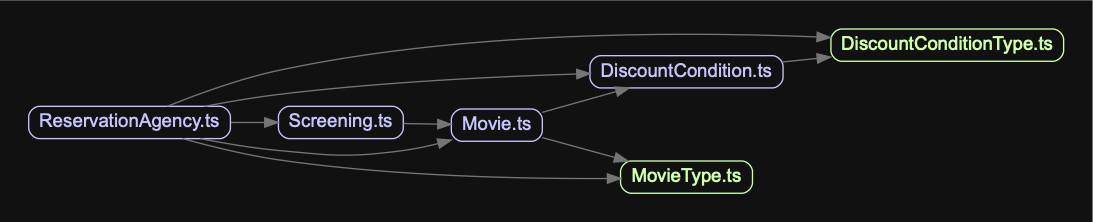
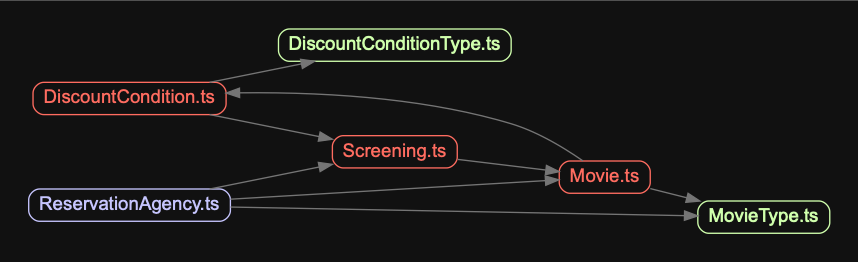
174p

diff --git a/chapter4/ReservationAgency.ts b/chapter4/ReservationAgency.ts
@@ -2,10 +2,8 @@ import { Reservation } from './Reservation';
 import { Screening } from './Screening';
 import { Customer } from './Customer';
 import { Movie } from './Movie';
-import { DiscountConditionType } from './DiscountConditionType';
 import { Money } from './Money';
 import { MovieType } from './MovieType';
-import { DiscountCondition } from './DiscountCondition';
 
 export class ReservationAgency {
   reserve(screening: Screening, customer: Customer, audienceCount: number): Reservation {
@@ -18,26 +16,7 @@ export class ReservationAgency {
     return screening
       .getMovie()
       .getDiscountConditions()
-      .some(condition => this.isDiscountable(condition, screening));
-  }
-
-  private isDiscountable(condition: DiscountCondition, screening: Screening): boolean {
-    if (condition.getType() === DiscountConditionType.PERIOD) {
-      return this.isSatisfiedByPeriod(condition, screening);
-    }
-    return this.isSatisfiedBySequence(condition, screening);
-  }
-
-  private isSatisfiedByPeriod(condition: DiscountCondition, screening: Screening): boolean {
-    return (
-      screening.getWhenScreended().getTime() === condition.getDayOfWeek() &&
-      condition.getStartTime() <= screening.getWhenScreended() &&
-      condition.getEndTime() >= screening.getWhenScreended()
-    );
-  }
-
-  private isSatisfiedBySequence(condition: DiscountCondition, screening: Screening): boolean {
-    return condition.getSequence() === screening.getSequence();
+      .some(condition => condition.isDiscountable(screening));
   }
 
   private calculateDiscountFee(screening: Screening, discountable: boolean, audienceCount: number): Money {

diff --git a/chapter4/DiscountCondition.ts b/chapter4/DiscountCondition.ts
@@ -1,4 +1,5 @@
 import { DiscountConditionType } from './DiscountConditionType';
+import { Screening } from './Screening';
 
 export class DiscountCondition {
   private type: DiscountConditionType;
@@ -9,43 +10,22 @@ export class DiscountCondition {
   private startTime: Date;
   private endTime: Date;
 
-  getType(): DiscountConditionType {
-    return this.type;
+  isDiscountable(screening: Screening): boolean {
+    if (this.type === DiscountConditionType.PERIOD) {
+      return this.isSatisfiedByPeriod(screening);
+    }
+    return this.isSatisfiedBySequence(screening);
   }
 
-  setType(type: DiscountConditionType) {
-    this.type = type;
+  private isSatisfiedByPeriod(screening: Screening): boolean {
+    return (
+      screening.getWhenScreended().getTime() === this.dayOfWeek &&
+      this.startTime <= screening.getWhenScreended() &&
+      this.endTime >= screening.getWhenScreended()
+    );
   }
 
-  getSequence(): number {
-    return this.sequence;
-  }
-
-  setSequence(sequence: number): void {
-    this.sequence = sequence;
-  }
-
-  getDayOfWeek(): number {
-    return this.dayOfWeek;
-  }
-
-  setDayOfWeek(dayOfWeek: number): void {
-    this.dayOfWeek = dayOfWeek;
-  }
-
-  getStartTime(): Date {
-    return this.startTime;
-  }
-
-  setStartTime(startTime: Date): void {
-    this.startTime = startTime;
-  }
-
-  getEndTime(): Date {
-    return this.endTime;
-  }
-
-  setEndTime(endTime: Date): void {
-    this.endTime = endTime;
+  private isSatisfiedBySequence(screening: Screening): boolean {
+    return this.sequence === screening.getSequence();
   }
 }
